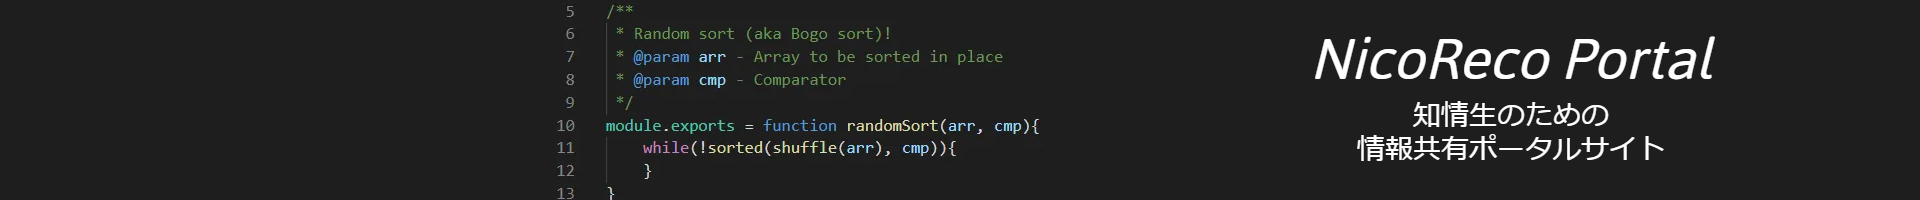
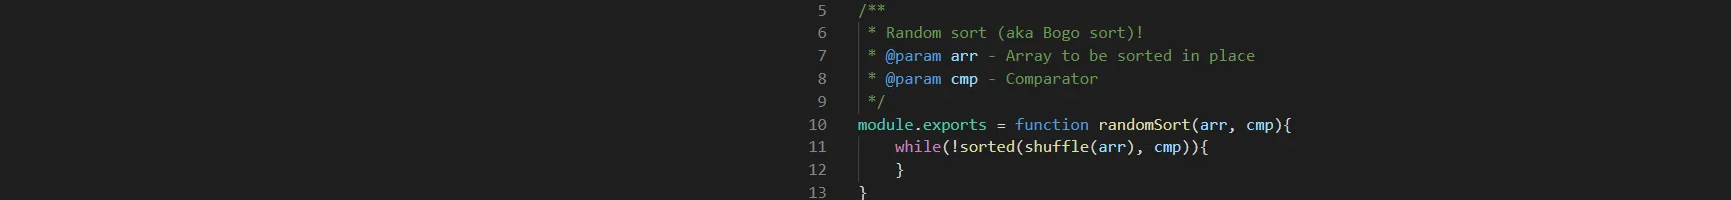
Change layout

diff --git a/ui/src/App.vue b/ui/src/App.vue
@@ -1,13 +1,15 @@
 <template>
   <div>
     <Nav id="nav"/>
-    <img :src="codeImg" id="code" alt="code">
     <div id="sidebar">
       <Sidebar />
     </div>
-    <main class="p-4">
+    <main class="">
       <NotFound v-if="isNotFound" />
-      <router-view v-else />
+      <div v-else>
+        <CodeBar id="code-bar"></CodeBar>
+        <router-view class="p-4" />
+      </div>
     </main>
   </div>
 </template>
@@ -18,11 +20,12 @@ import { useStore } from 'vuex'
 import Nav from "@/components/Nav";
 import Sidebar from "@/components/Sidebar";
 import NotFound from "@/components/NotFound";
-import codeImg from "@/assets/img/code.png";
+import CodeBar from "@/components/CodeBar";
 export default {
   components: {
     Nav,
     Sidebar,
+    CodeBar,
     NotFound
   },
   setup(){
@@ -30,7 +33,6 @@ export default {
     // 404エラーの状態管理
     const isNotFound = computed(() => store.state.isNotFound)
     return {
-      codeImg,
       isNotFound
     }
   }
@@ -42,13 +44,8 @@ export default {
   body {
     word-wrap: break-word;
   }
-  #nav {
-    position: relative;
-    /* code部分より前に出すため */
-    z-index: 1031
-  }
   /* スマホ版 */
-  #code {
+  #code-bar {
     display: none;
   }
   #sidebar {
@@ -61,26 +58,18 @@ export default {
   /* PC版 */
   /*画面サイズが768px(BootstrapのMedium)からはここを読み込む*/
   @media screen and (min-width:768px) {
-    #code {
+    #code-bar {
       display: block;
-      object-fit: cover;
-      position: fixed;
-      top: 60px;
-      width: 100vw;
-      height: 160px;
-      z-index: 1030;
     }
     #sidebar {
       display: block;
       position: fixed;
-      top: 220px;
+      top: 60px;
       width: 250px;
       height: 100vh;
       background-color: rgba(227, 225, 230, 0.555);
     }
     main{
-      position: relative;
-      top: 220px;
       margin-left: 250px;
     }
   }

diff --git a/ui/src/components/CodeBar.vue b/ui/src/components/CodeBar.vue
@@ -1,0 +1,36 @@
+<template>
+  <div class=position-relative>
+    <img :src="codeImg" height="200" alt="code-bar" class="w-100 p-1">
+    <div class="position-absolute top-0 start-0 text-light fw-bold p-3"> 
+        {{ message }}
+    </div>
+    <div class="position-absolute top-0 end-0 text-light text-center p-5">
+        <h3><em>Nicoreco Portal</em></h3>
+        <p class="m-0">知情生のための</p>
+        <p >情報共有ポータルサイト</p>
+    </div>
+  </div>
+</template>
+
+<script>
+import { computed } from 'vue'
+import { useStore } from 'vuex'
+import UserIconMenu from "@/components/UserIconMenu"
+import codeImg from '@/assets/img/code.png'
+
+export default {
+  name: "CodeBar",
+  setup() {
+    const store = useStore()
+    const auth = computed(() => store.state.auth)
+    const message = "講義一覧"
+    return {
+      message,
+      codeImg,
+    }
+  }
+}
+</script>
+
+<style>
+</style>
